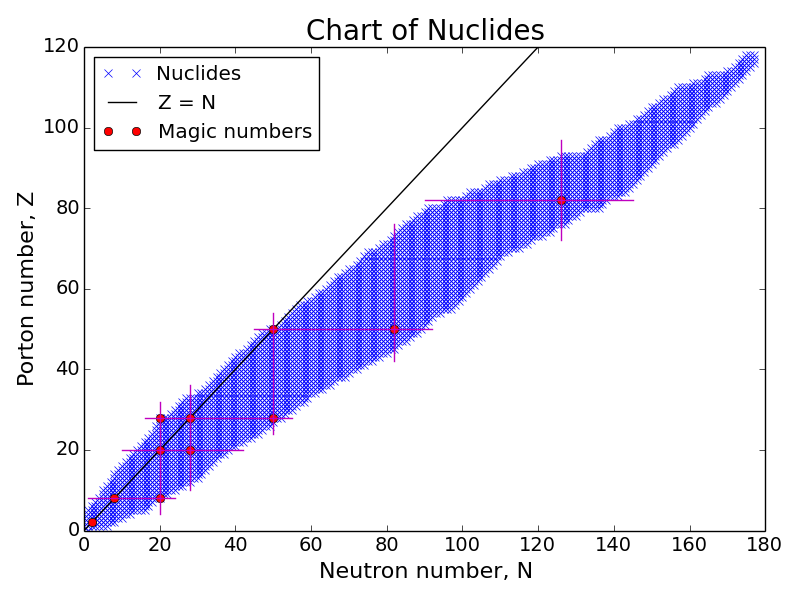
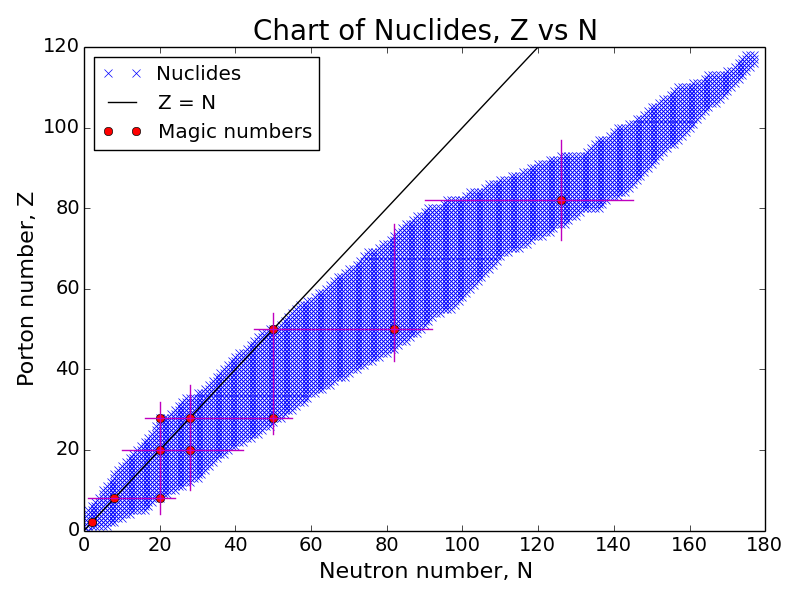
More nuclei charts, separation energy, decay chains

Changed region(s): [[0.3125, 0.03, 0.75, 0.09]]

diff --git a/NPE/ChartOfNuclides.py b/NPE/ChartOfNuclides.py
@@ -21,7 +21,7 @@ with open(data, "r") as datafile:
 		A[j] = float(line[16:19].strip())
 		Z[j] = float(line[11:14].strip())
 		j += 1
- 
+
 N = A-Z 	 	# Neutron number
 
 MagicNumbers = array([2, 8, 20, 28, 50, 82, 126])
@@ -40,7 +40,7 @@ MagicPairs = array([[2, 2],
 Nmagic = MagicPairs[:, 0]
 Zmagic = MagicPairs[:, 1]
 
-# Plot of Chart of nuclides
+# Plot of Chart of nuclides, Z vs N
 fig1 = figure(1)
 plot(N, Z, "x", [0, 120], [0, 120], "k-") 	# Nuclides and Z = N line
 plot(Nmagic, Zmagic, "ro") 					# Magic numbers
@@ -48,12 +48,38 @@ plot([1, 24], [8, 8], "m-", [20, 20], [4, 32], "m-", [10, 42], [20, 20], "m-",
 	 [28, 28], [10, 36], "m-", [16, 55], [28, 28], "m-", [50, 50], [24, 54], "m-",
 	 [45, 92], [50, 50], "m-", [82, 82], [42, 76], "m-", [90, 145], [82, 82], "m-",
 	 [126, 126], [72, 97], "m-") 			# Lines for magic numbers
-title("Chart of Nuclides", fontsize=20)
+title("Chart of Nuclides, Z vs N", fontsize=20)
 xlabel("Neutron number, N", fontsize=16)
 ylabel("Porton number, Z", fontsize=16)
 legend(["Nuclides", "Z = N", "Magic numbers"], loc=0)
 tick_params(labelsize=14)
 fig1.set_tight_layout(True) # Minimizing overlap of labels
 savefig("CoN.png") # Saving figure to .png
+#show()
+
+
+# Plot of Chart of nuclides, Z vs A
+fig2 = figure(2)
+plot(A, Z, "x", [0, 240], [0, 120], "k-") 	# Nuclides and Z = A/2 line
+title("Chart of Nuclides, Z vs A", fontsize=20)
+xlabel("Mass number, A", fontsize=16)
+ylabel("Proton number, Z", fontsize=16)
+legend(["Nuclides", "Z = A/2"], loc=0)
+tick_params(labelsize=14)
+fig2.set_tight_layout(True) # Minimizing overlap of labels
+savefig("CoN2.png") # Saving figure to .png
+#show()
+
+
+# Plot of Chart of nuclides, Z/A vs A 
+fig3 = figure(3)
+plot(A, Z/A, "x", [0, 294], [0.5, 0.5], "k-")
+title("Chart of Nuclides, Z/A vs A", fontsize=20)
+xlabel("Mass number, A", fontsize=16)
+ylabel("Z/A", fontsize=16)
+legend(["Nuclides", "Z/A = 1/2"], loc=0)
+tick_params(labelsize=14)
+fig3.set_tight_layout(True) # Minimizing overlap of labels
+savefig("CoN3.png") # Saving figure to .png
 show()
 

diff --git a/NPE/RadioactiveDecay.py b/NPE/RadioactiveDecay.py
@@ -7,13 +7,12 @@ from numpy import *
 N0 = 1e5
 Lambda = log(2)/30.05  	# [1/y]
 
-t = linspace(0, 100, 10000)   	# Time interval [s]
+t = linspace(0, 100, 10000)   	# Time interval [y]
 N = N0*exp(-Lambda*t) 			# Number of nuclei not decayed
 A = Lambda*N 					# Activity [Bq]
 
 
-fig = figure(1)
-
+fig1 = figure(1)
 subplot(221)
 plot(t, N, "b-")
 title("Radioactive decay", fontsize=20)
@@ -44,6 +43,30 @@ ylabel("ln(A(t))", fontsize=16)
 legend(["Cs-137"], loc=0)
 tick_params(labelsize=14)
 
-fig.set_tight_layout(True) # Minimizing overlap of labels
+fig1.set_tight_layout(True) # Minimizing overlap of labels
 savefig("RD.png") # Saving figure to .png
+#show()
+
+
+# Radioactive decay chain
+T = linspace(0, 1e6, 10000) # Time interval [y]
+Lambda1 = log(2)/2.45e5  	# U-234 [1/y]
+Lambda2 = log(2)/8.0e4  	# Th-230 [1/y]
+Lambda3 = log(2)/10e15  	# Stable [1/y]
+
+# Plot
+fig2 = figure(2)
+N1 = N0*exp(-Lambda1*T)
+N2 = N0*Lambda1*(exp(-Lambda1*T) - exp(-Lambda2*T))/(Lambda2 - Lambda1)
+N3 = N0*(Lambda1*(1.0 - exp(-Lambda2*T)) - Lambda2*(1.0 - exp(-Lambda1*T)))/(Lambda1 - Lambda2)
+
+plot(T, N1, T, N2, T, N3)
+title("Radioactive decay chain", fontsize=20)
+xlabel("time [y]", fontsize=16)
+ylabel(r"N$_x$(t)", fontsize=16)
+legend([r"N$_1$(t) Parent", r"N$_2$(t) Daughter", r"N$_3$(t) Stable"], loc=0)
+tick_params(labelsize=14)
+fig2.set_tight_layout(True) # Minimizing overlap of labels
+savefig("RDC.png") # Saving figure to .png
 show()
+

diff --git a/NPE/Qvalue.py b/NPE/Qvalue.py
@@ -42,7 +42,7 @@ def M(Z, A):
 # Calculate Q-value (equation 8.8)
 def Qalpha(Z, A): 
 	return (M(Z, A) - M(Z-2, A-4) - M(2, 4))*c2
-	#return B(2, 4) - B(Z-2, A-4) - B(Z, A)
+	#return B(2, 4) + B(Z-2, A-4) - B(Z, A)
 
 def Qelectron(Z, A):
 	return (M(Z, A) - M(Z+1, A))*c2
@@ -51,7 +51,7 @@ def Qpositron(Z, A):
 	return (M(Z, A) - M(Z-1, A) - 2*m_e)*c2
 
 def QelectronCapture(Z, A):
-	return 0
+	return (M(Z, A) - M(Z-1, A))*c2 - BE(n) 	# BE(n) is the binding energy of the captured n-shell electron
 
 # Alpha-decay
 print("Th-218: calculated = %g, book-value = ?.?? MeV, measured = %g MeV" % (Qalpha(90, 218), 9.85)) # Th-218
@@ -63,5 +63,4 @@ print("Th-232: calculated = %g, book-value = %g MeV, measured = %g MeV" % (Qalph
 print("Bi-210 (b-): calculated = %g, book-value = %g MeV" % (Qelectron(83, 210), 1.161)) 	# Bi-210
 print(" I-124 (b+): calculated = %g, book-value = %g MeV" % (Qpositron(53, 124), 2.14)) 	# I-124
 #print("Ca-41 (ec): calculated = %g, book-value = %g MeV, measured = ? MeV" % (QelectronCapture(20, 41), 0.43)) # Ca-41
-
 

diff --git a/NPE/SeparationEnergy.py b/NPE/SeparationEnergy.py
@@ -15,9 +15,39 @@ m_H = 1.007825      # Mass of Hydrogen [u]
 m_n = 1.008665      # Mass of Neutron [u]
 
 
+# Neutron number
+def N(Z, A):
+	return A-Z
 
-def neutronSeparationEnergy():
+# Delta factor from pairing term
+def delta(Z, A):
+	# If both Z and N is even
+	if (Z % 2 == 0 and N(Z, A) % 2 == 0): 
+		return 1
+		# If both Z and N is odd
+	elif (Z % 2 == 1 and N(Z, A) % 2 == 1): 
+		return -1
+    # If A is odd
+	else: 
+		return 0
+
+# Complete binding energy (equation 3.28)
+def B(Z, A):
+	return a_v*A - a_s*A**(2.0/3.0) - a_c*(Z*(Z-1))/A**(1.0/3.0) - a_sym*((A-2*Z)**2)/A + delta(Z, A)*a_p/A**(3.0/4.0)
+
+# Semi-empirical mass formula (SEMF) (equation 3.29)
+def M(Z, A):
+	return Z*m_H + N(Z, A)*m_n - B(Z, A)/c2
+
+# Neutron separation energy
+def Sn(Z, A):
+	return (M(Z, A-1) - M(Z, A) + m_n)*c2
+
+# Proton separation energy
+def Sp(Z, A):
+	return (M(Z-1, A-1) - M(Z, A) + m_H)*c2
 
 
+# Test 1: O-16
+print("O-16: Sn = %g MeV, Sp = %g MeV" % (Sn(8, 16), Sp(8, 16)))
 
-def protonSeparationEnergy():

diff --git a/NPE/Radius.py b/NPE/Radius.py
@@ -1,0 +1,27 @@
+# Proposed solution is written in Python 3.6.1.
+# Radius
+
+from matplotlib.pyplot import *
+from numpy import *
+
+# Constants	[unit]
+R0 = 1.25 # [fm]
+
+# Range of mass number
+A = arange(1, 294, 1)
+
+# Radius
+R = R0*A**(1.0/3.0)
+
+
+# Plot of radius
+fig1 = figure(1)
+plot(A, R)
+title("Nuclear radius", fontsize=20)
+xlabel("Neutron number, N", fontsize=16)
+ylabel("Radius [fm]", fontsize=16)
+tick_params(labelsize=14)
+fig1.set_tight_layout(True) # Minimizing overlap of labels
+savefig("Radius.png") # Saving figure to .png
+show()
+

diff --git a/NPE/MassParabola.py b/NPE/MassParabola.py
@@ -5,13 +5,13 @@ from matplotlib.pyplot import *
 from numpy import *
 
 # Choose A, Zmin and Zmax
-#A = 125
-#Zmin = 45
-#Zmax = 60
 
-A = 128
-Zmin = 46
-Zmax = 61
+# Test 1: Odd A
+#A = 125; Zmin = 45; Zmax = 60
+
+# Test 2: Even A
+A = 128; Zmin = 46; Zmax = 61
+
 
 # Constants	[unit]
 a_v = 15.5 			# Volume [MeV]
